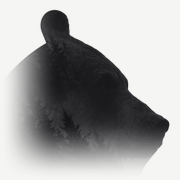
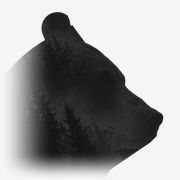
Сайт: значок — круглое ухо, морда отделена от шеи
Claude-Session: https://claude.ai/code/session_01Uu83MB45nkJX1tXJZPePva

diff --git a/site/index.html b/site/index.html
@@ -7,9 +7,9 @@
 <meta name="description" content="Лана Фрейтаг — любовные романы. Новые главы на Литнете.">
 <meta name="theme-color" content="#fbfbfd" media="(prefers-color-scheme: light)">
 <meta name="theme-color" content="#0f0f13" media="(prefers-color-scheme: dark)">
-<link rel="icon" type="image/png" sizes="32x32" href="icon-32.png?4">
-<link rel="icon" type="image/png" sizes="512x512" href="icon-512.png?4">
-<link rel="apple-touch-icon" href="icon-bear.png?4">
+<link rel="icon" type="image/png" sizes="32x32" href="icon-32.png?5">
+<link rel="icon" type="image/png" sizes="512x512" href="icon-512.png?5">
+<link rel="apple-touch-icon" href="icon-bear.png?5">
 <link rel="preconnect" href="https://fonts.googleapis.com">
 <link rel="preconnect" href="https://fonts.gstatic.com" crossorigin>
 <link rel="stylesheet" href="https://fonts.googleapis.com/css2?family=Cormorant:ital,wght@1,400;1,500&family=Golos+Text:wght@400;500&family=Oranienbaum&display=swap">

diff --git a/site/admin/index.html b/site/admin/index.html
@@ -5,9 +5,9 @@
 <meta name="viewport" content="width=device-width, initial-scale=1, viewport-fit=cover">
 <meta name="robots" content="noindex">
 <title>Сайт · админка</title>
-<link rel="icon" type="image/png" sizes="32x32" href="../icon-32.png?4">
-<link rel="icon" type="image/png" sizes="512x512" href="../icon-512.png?4">
-<link rel="apple-touch-icon" href="../icon-bear.png?4">
+<link rel="icon" type="image/png" sizes="32x32" href="../icon-32.png?5">
+<link rel="icon" type="image/png" sizes="512x512" href="../icon-512.png?5">
+<link rel="apple-touch-icon" href="../icon-bear.png?5">
 <link rel="preconnect" href="https://fonts.googleapis.com">
 <link rel="preconnect" href="https://fonts.gstatic.com" crossorigin>
 <link rel="stylesheet" href="https://fonts.googleapis.com/css2?family=Cormorant:ital,wght@1,400;1,500&family=Golos+Text:wght@400;500&family=Oranienbaum&display=swap">

diff --git a/AGENTS.md b/AGENTS.md
@@ -37,7 +37,7 @@
   последний призыв; на телефоне кнопка «Читать» внизу появляется, когда главная ушла из виду.
   Пустые разделы не показываются. Цитаты, отрывки, отзывы — только настоящие (из книг/от читателей), не выдумывать.
   Первый экран главной — без обложек книг: слева заголовок и кнопка, справа **медведь в тумане над лесом — кадр с её обложки
-  «Звериная тропа для двоих»** (`site/hero-bear.jpg`, без лица героини и названия; значок вкладки — как у крупных сайтов: прозрачный фон, крупно (на весь значок) настоящая голова медведя с той же обложки (глаз, нос, шерсть; затылок уходит в туман), с чётким силуэтом (контур профиля с обложки, круглое ухо, голова чуть приподнята — морда вперёд, внутри фактура обложки; затылок и шея тают к краю) — размытая голова во вкладке «сливается»; белый ореол на розовой вкладке некрасив; плитку под значком она не хочет; для iPhone (`icon-bear.png`) — на светлом фоне; чёрный силуэт (и обведённый, и нарисованный) она отвергла, мелкую голову в круге — тоже (`site/icon-32.png`, `icon-bear.png` 180, `icon-512.png`; рисованного кодом медведя она отвергла))
+  «Звериная тропа для двоих»** (`site/hero-bear.jpg`, без лица героини и названия; значок вкладки — как у крупных сайтов: прозрачный фон, крупно (на весь значок) настоящая голова медведя с той же обложки (глаз, нос, шерсть; затылок уходит в туман), с чётким силуэтом (контур профиля с обложки, ухо круглое на широком основании — «палку» она отвергла, под мордой подбородок и горло уходят назад — чтобы морда не сливалась с низом, голова чуть приподнята — морда вперёд, внутри фактура обложки; затылок и шея тают к краю) — размытая голова во вкладке «сливается»; белый ореол на розовой вкладке некрасив; плитку под значком она не хочет; для iPhone (`icon-bear.png`) — на светлом фоне; чёрный силуэт (и обведённый, и нарисованный) она отвергла, мелкую голову в круге — тоже (`site/icon-32.png`, `icon-bear.png` 180, `icon-512.png`; рисованного кодом медведя она отвергла))
   или другая картинка `photo`. Картинка 1300×1000: только голова медведя (ели ВНУТРИ силуэта — как на обложке, можно) из обложки
   в полном разрешении, мягко выходит из лёгкого тумана; дымка обложки переведена в белый (смешивание multiply с фоном).
   Текст и медведь — одна композиция строго по центру экрана (сетка 540px + 500px, медведь заходит под текст на 48px, текст сдвинут вправо до 48px — у медведя справа туман, так визуальный центр совпадает с центром экрана); картинка — в той же сетке, не absolute. У `.hero-in` нет z-index — иначе multiply не смешивается с фоном и виден белый прямоугольник.
